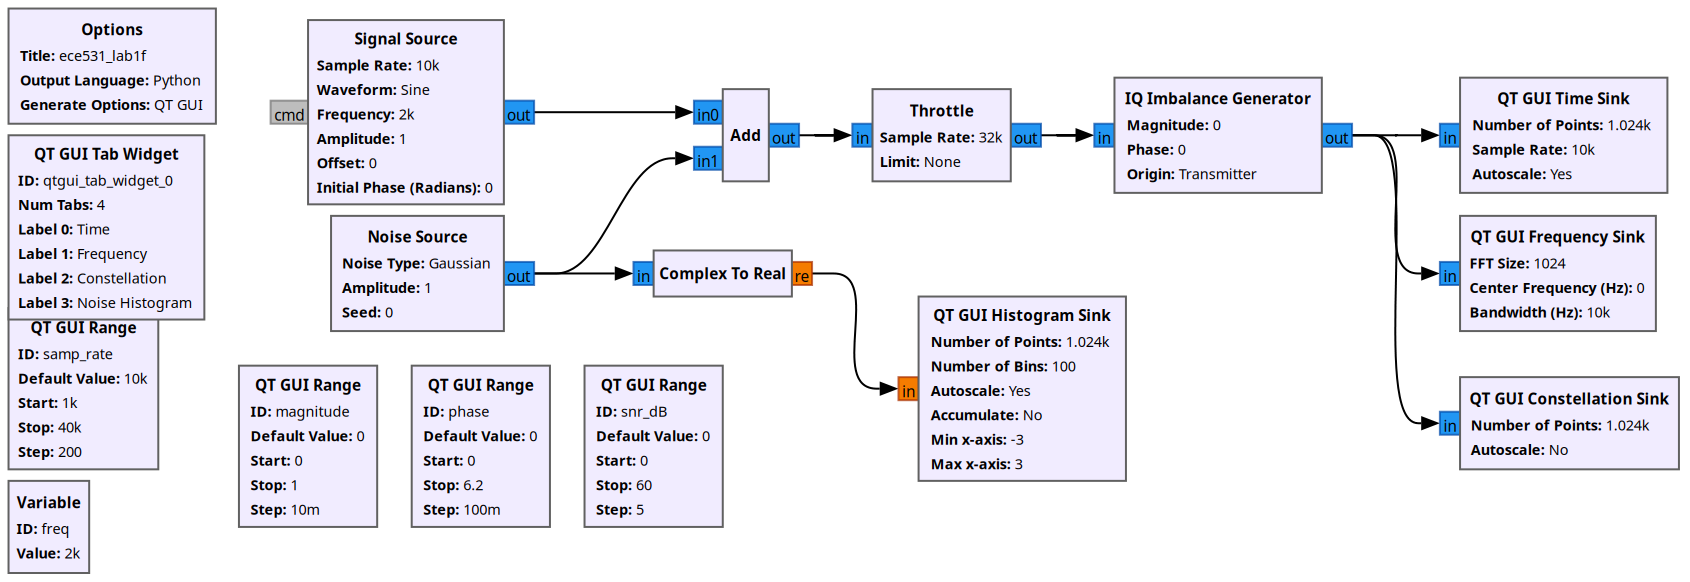
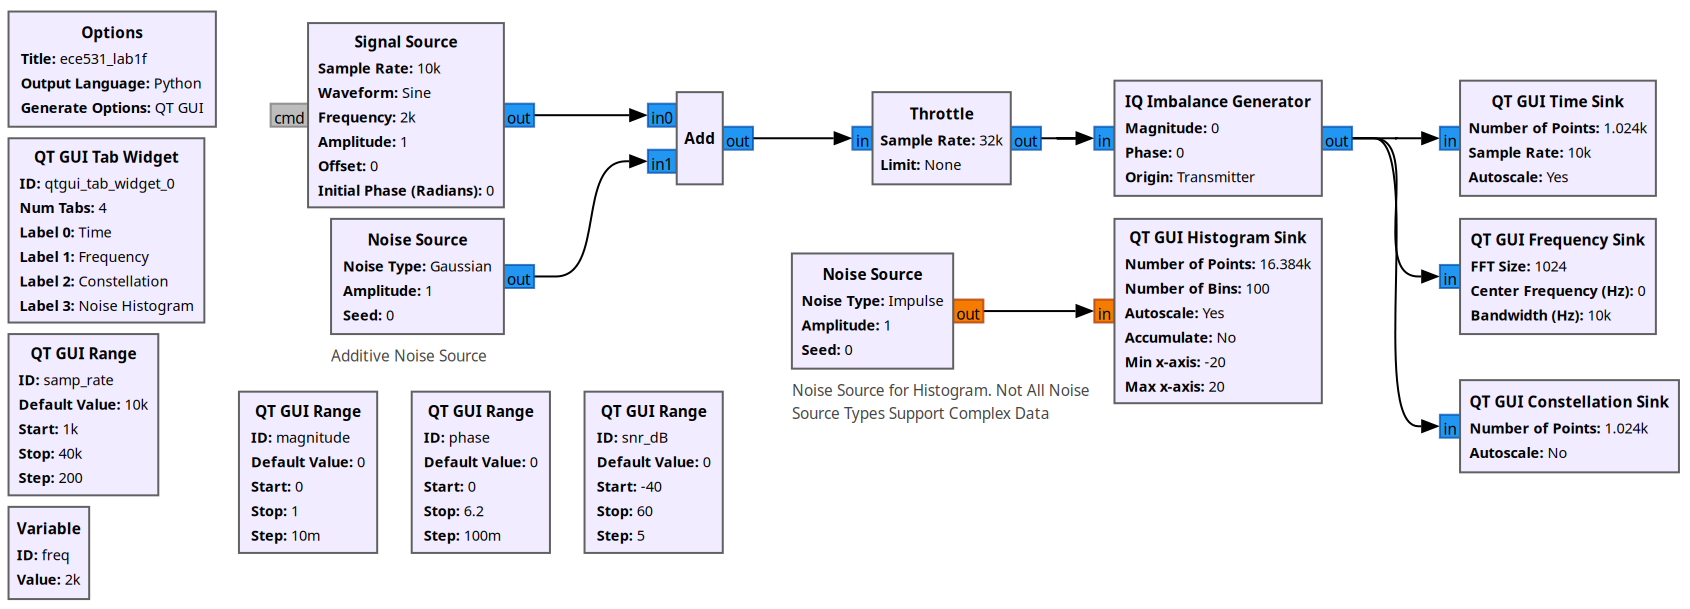
Examining effects of noise

diff --git a/1/lab_report.tex b/1/lab_report.tex
@@ -440,6 +440,33 @@ The results of Figure \ref{fig::iq_imbalance_0_mag_6_phase_39p8k_samp_rate_const
 
 Similarly, the results of Figure \ref{fig::iq_imbalance_1_mag_0_phase_39p8k_samp_rate_const} can be explained using Equation \ref{eq::received_signal_phase_imbalance}. For increase amounts of amplitude imbalance, we see the constellation stretch along the real-axis to $1+\varepsilon$, while the constellation does not stretch along the imaginary axis.
 
+\subsection{Adding Noise}
+
+This section highlights the impact of additive noise on time-domain data, frequency-domain data, and received constellations. Figure \ref{fig::noise_time_domain_10dB_snr} shows time-domain data with additive white Gaussian noise (AWGN) that results in a 10 dB SNR.
+
+\begin{figure}[H]
+	\centerline{\fbox{\includegraphics[width=0.7\textwidth]{noise_time_domain_10dB_snr.png}}}
+	\caption{Time-Domain Sinusoid Data with AWGN Noise Resulting in 10 dB SNR}
+	\label{fig::noise_time_domain_10dB_snr}
+\end{figure}
+
+Comparing the above figure to Figure \ref{fig::sampling_rates_freq_domain_10k_samp_rate}, we see that the added noise randomizes the values of the peaks and zeros in the sampled data. With a low enough SNR, we could easily mask the sinusoid data with the noise. Figure \ref{fig::noise_freq_domain_20dB_snr} highlights the impact of AWGN noise on the frequency response.
+
+\begin{figure}[H]
+	\centerline{\fbox{\includegraphics[width=0.7\textwidth]{noise_freq_domain_20dB_snr.png}}}
+	\caption{Sinusoid Frequency Response with AWGN Noise Resulting in 20 dB SNR}
+	\label{fig::noise_freq_domain_20dB_snr}
+\end{figure}
+
+Comparing the above figure to Figure \ref{fig::sampling_rates_freq_domain_10k_samp_rate}, we see that the added noise has created a noise floor in the frequency response, well above the previously observed sidelobe levels. Figure \ref{fig::noise_constellation_20dB_snr} highlights the impact of AWGN noise on the received constellation.
+
+\begin{figure}[H]
+	\centerline{\fbox{\includegraphics[width=0.7\textwidth]{noise_constellation_20dB_snr.png}}}
+	\caption{Received Constellation with AWGN Noise Resulting in 20 dB SNR}
+	\label{fig::noise_constellation_20dB_snr}
+\end{figure}
+
+Comparing the above figure to Figure \ref{fig::iq_imbalance_0_mag_0_phase_10k_samp_rate_const}, the additive noise causes the expected constellation points to deviate from the expected constellation points. Luckily, at a 20 dB SNR, we can clearly distinguish which noise-free constellation point the data is associated with. Decreasing the SNR, increase the amount of deviation between the constellation points and expected constellation points. This can lead to bit errors in a communication system which maps constellation points to sequences of bits.
 % The resulting figure is shown in Figure \ref{} and is identical to the Figure shown in \ref{fig}.
 
 
